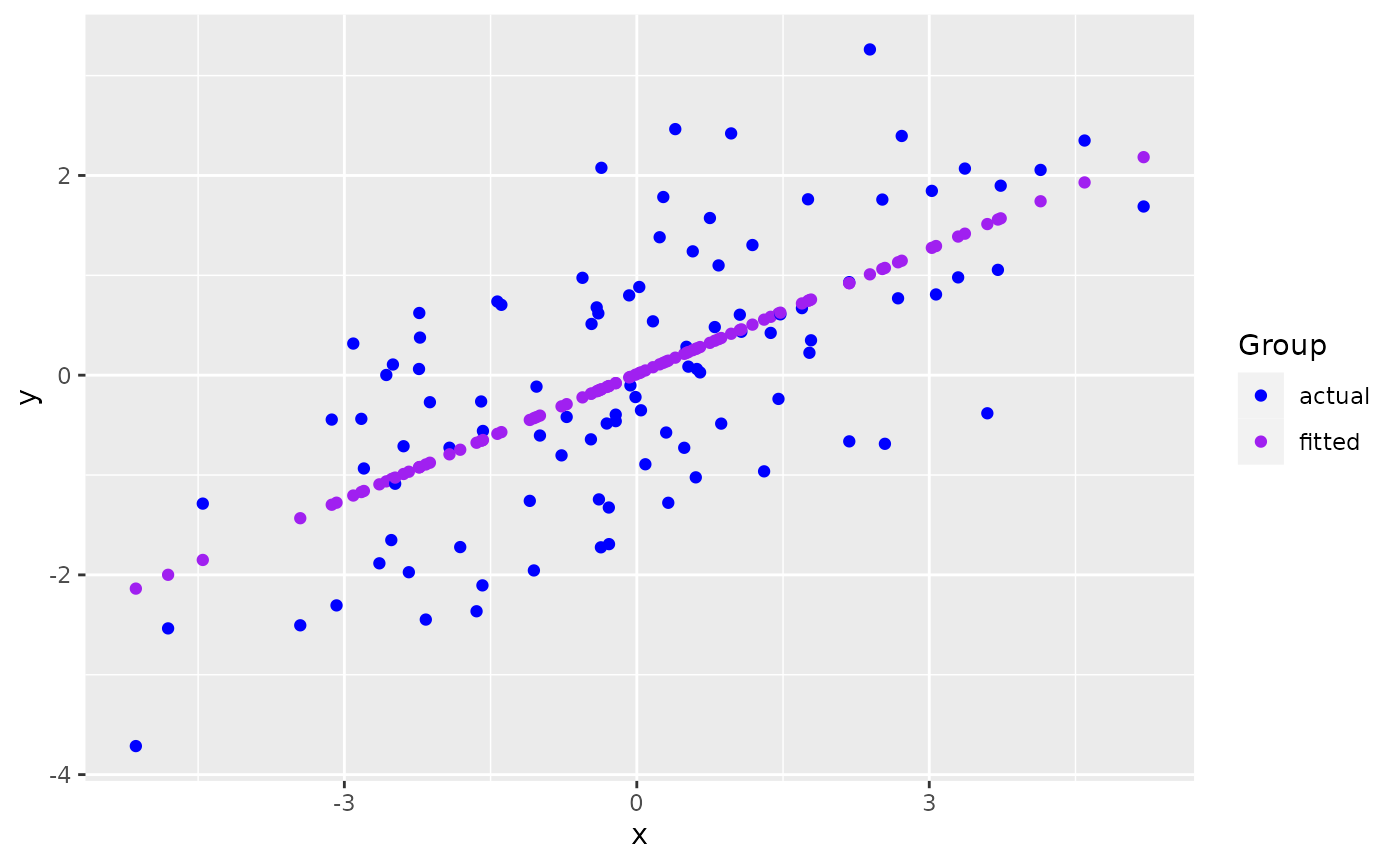
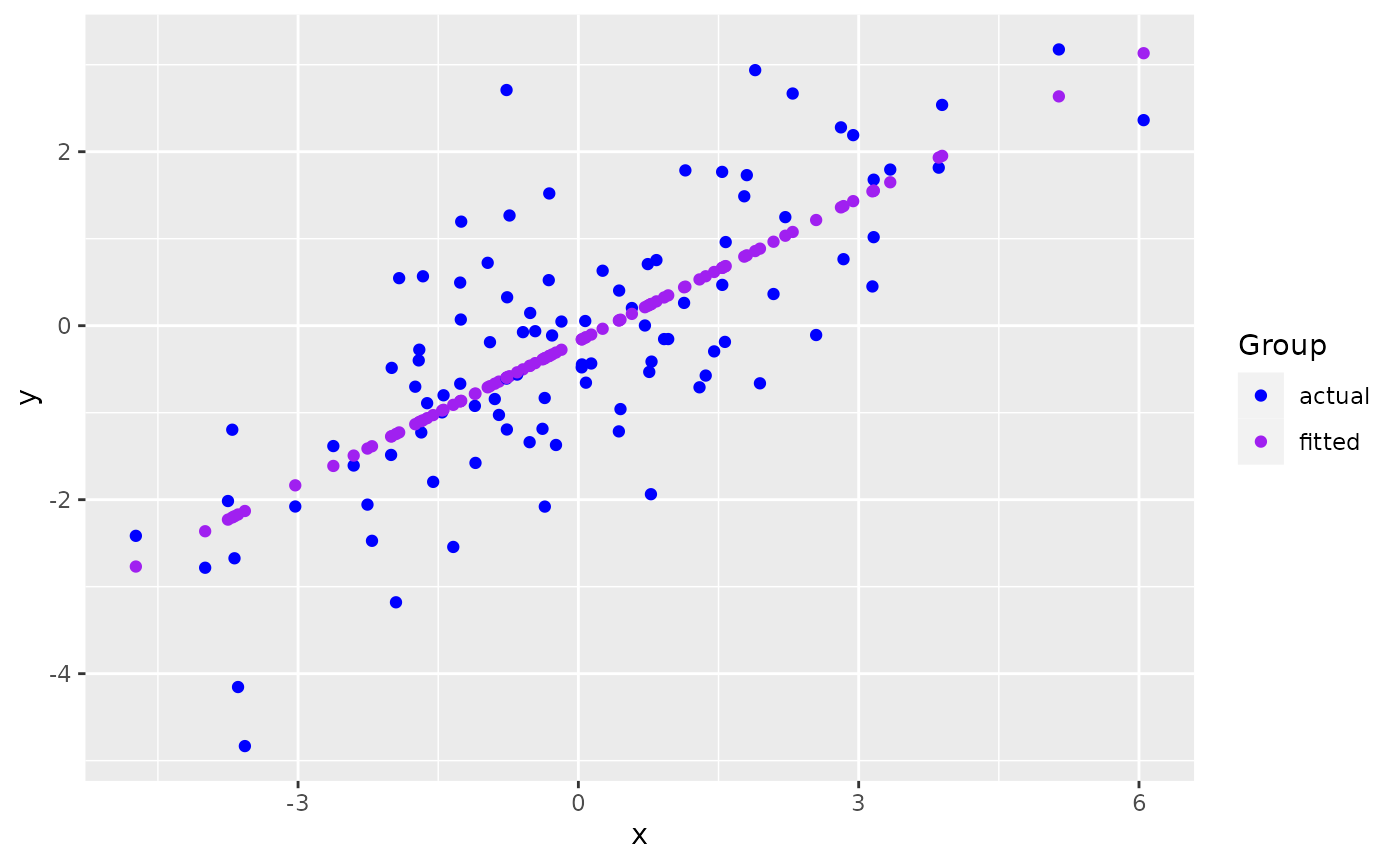
Built site for ggmatplot: 0.1.0@4735d7f

diff --git a/articles/ggmatplot.html b/articles/ggmatplot.html
@@ -103,7 +103,7 @@
 <span class="va">x</span> <span class="op">&lt;-</span> <span class="fu"><a href="https://rdrr.io/r/base/c.html" class="external-link">c</a></span><span class="op">(</span><span class="fu"><a href="https://rdrr.io/r/stats/Normal.html" class="external-link">rnorm</a></span><span class="op">(</span><span class="fl">100</span>, sd <span class="op">=</span> <span class="fl">2</span><span class="op">)</span><span class="op">)</span>
 
 <span class="fu"><a href="https://rdrr.io/r/utils/head.html" class="external-link">head</a></span><span class="op">(</span><span class="va">x</span><span class="op">)</span>
-<span class="co">#&gt; [1] 1.3057236 3.2962397 0.6160326 4.5932469 4.1419470 1.0724433</span>
+<span class="co">#&gt; [1] -0.46186417  0.96149871  3.16066506 -0.84994304  0.08109697  1.89235512</span>
 
 <span class="co"># matrix z</span>
 <span class="va">y</span> <span class="op">&lt;-</span> <span class="va">x</span> <span class="op">*</span> <span class="fl">0.5</span> <span class="op">+</span> <span class="fu"><a href="https://rdrr.io/r/stats/Normal.html" class="external-link">rnorm</a></span><span class="op">(</span><span class="fl">100</span>, sd <span class="op">=</span> <span class="fl">1</span><span class="op">)</span>
@@ -112,13 +112,13 @@
            fitted <span class="op">=</span> <span class="va">fit.y</span><span class="op">)</span>
 
 <span class="fu"><a href="https://rdrr.io/r/utils/head.html" class="external-link">head</a></span><span class="op">(</span><span class="va">z</span><span class="op">)</span>
-<span class="co">#&gt;       actual    fitted</span>
-<span class="co">#&gt; 1 -0.9630562 0.5562332</span>
-<span class="co">#&gt; 2  0.9793460 1.3881761</span>
-<span class="co">#&gt; 3  0.0618414 0.2679745</span>
-<span class="co">#&gt; 4  2.3498704 1.9302646</span>
-<span class="co">#&gt; 5  2.0555116 1.7416423</span>
-<span class="co">#&gt; 6  0.4346254 0.4587329</span></code></pre></div>
+<span class="co">#&gt;        actual     fitted</span>
+<span class="co">#&gt; 1 -0.06323528 -0.4301450</span>
+<span class="co">#&gt; 2 -0.15362365  0.3485751</span>
+<span class="co">#&gt; 3  1.67847016  1.5517362</span>
+<span class="co">#&gt; 4 -1.02590533 -0.6424624</span>
+<span class="co">#&gt; 5 -0.65498476 -0.1330916</span>
+<span class="co">#&gt; 6  2.93770788  0.8578454</span></code></pre></div>
 <p><code>ggmatplot</code> plots vector <code>x</code> against each column of matrix <code>z</code> using the default <code>plot_type = "point"</code>. This will be represented on the resulting plot as two groups, identified using different shapes and colors.</p>
 <div class="sourceCode" id="cb2"><pre class="downlit sourceCode r">
 <code class="sourceCode R"><span class="kw"><a href="https://rdrr.io/r/base/library.html" class="external-link">library</a></span><span class="op">(</span><span class="va"><a href="https://github.com/xuan-liang/ggmatplot" class="external-link">ggmatplot</a></span><span class="op">)</span>
